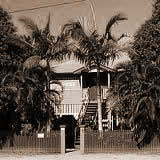
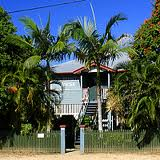
added some colors

diff --git a/app/assets/stylesheets/foundation_and_overrides.scss b/app/assets/stylesheets/foundation_and_overrides.scss
@@ -4,6 +4,11 @@ $red: #7F0710;
 $background-color: $red;
 $brown: #654222;
 $light: #E2D4A5;
+$lighterRed: #FF2F0D;
+$darkerRed: #E80C0E;
+$salmonpPink: #FF0082;
+$lightPurple: #E70CE8;
+$darkerPurple: #BC0DFF;
 .row {
 background-color: $background
 
